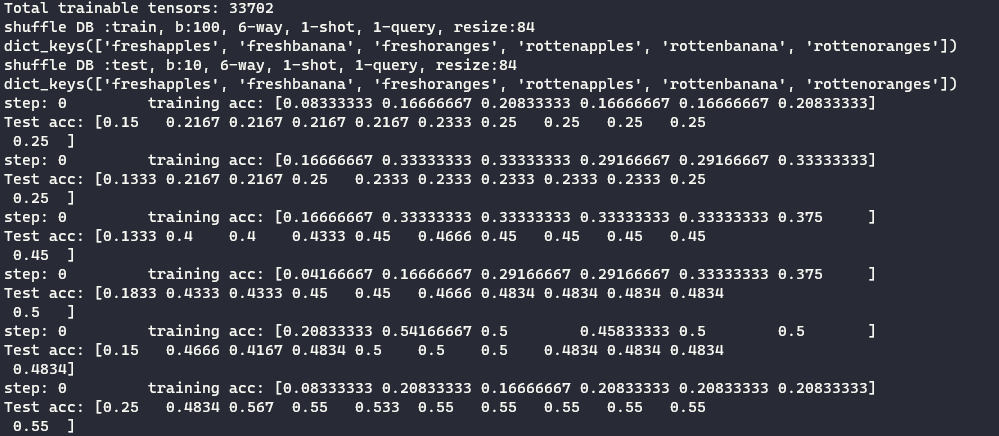
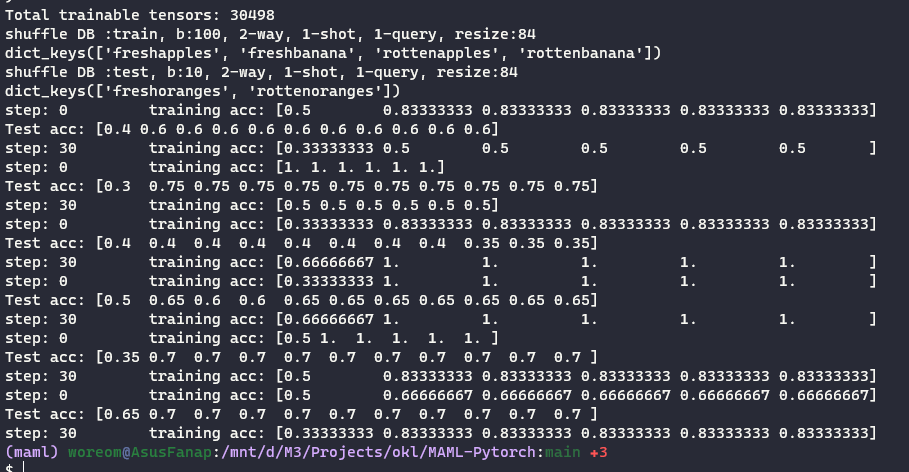
readme update

diff --git a/rotten_train.py b/rotten_train.py
@@ -94,15 +94,15 @@ def main():
 if __name__ == '__main__':
 
     argparser = argparse.ArgumentParser()
-    argparser.add_argument('--n_way', type=int, help='n way', default=6)
+    argparser.add_argument('--n_way', type=int, help='n way', default=2)
     argparser.add_argument('--k_spt', type=int, help='k shot for support set', default=1)
     argparser.add_argument('--k_qry', type=int, help='k shot for query set', default=1)
-    argparser.add_argument('--path', type=str, help='epoch number', default="/mnt/d/M3/Projects/okl/MAML-Pytorch/dataset/dataset/")
+    argparser.add_argument('--path', type=str, help='path to the dataset', default="/mnt/d/M3/Projects/okl/MAML-Pytorch/dataset/")
     argparser.add_argument('--batch', type=int, help='epoch number', default=100)
     argparser.add_argument('--epoch', type=int, help='epoch number', default=60000)
     argparser.add_argument('--imgsz', type=int, help='imgsz', default=84)
     argparser.add_argument('--imgc', type=int, help='imgc', default=3)
-    argparser.add_argument('--task_num', type=int, help='meta batch size, namely task num', default=4)
+    argparser.add_argument('--task_num', type=int, help='meta batch size, namely task num', default=3)
     argparser.add_argument('--meta_lr', type=float, help='meta-level outer learning rate', default=1e-3)
     argparser.add_argument('--update_lr', type=float, help='task-level inner update learning rate', default=0.01)
     argparser.add_argument('--update_step', type=int, help='task-level inner update steps', default=5)

diff --git a/MiniImagenet.py b/MiniImagenet.py
@@ -90,6 +90,8 @@ class MiniImagenet(Dataset):
                     dictLabels[label].append(filename)
                 else:
                     dictLabels[label] = [filename]
+
+        print(dictLabels.keys())
         return dictLabels
 
     def create_batch(self, batchsz):
